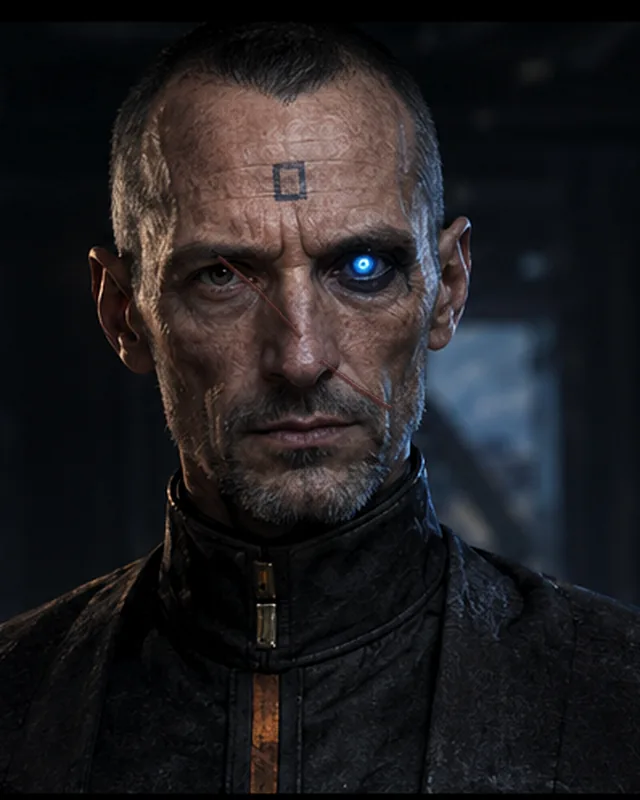
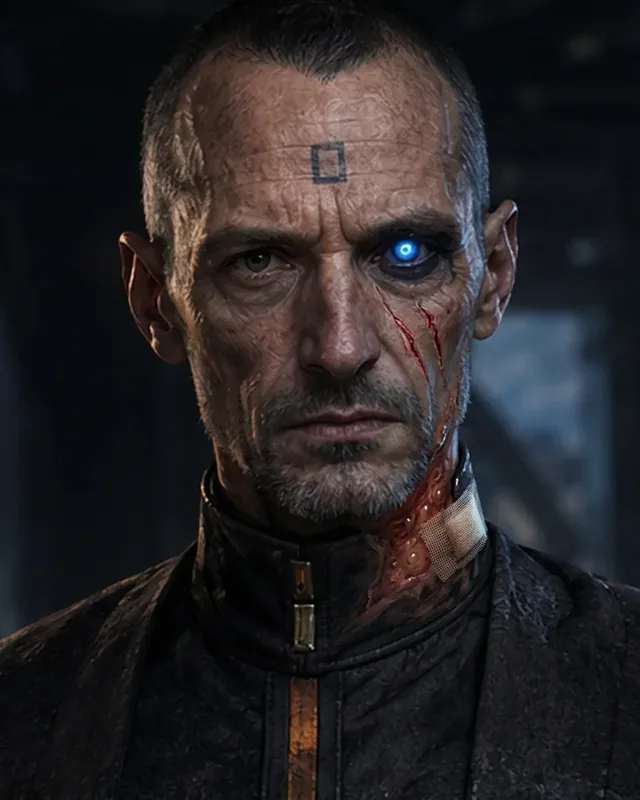
Art: the last ten pictures (six contacts, three hulls, cache scene) and eight redrawn scarred captains
Claude-Session: https://claude.ai/code/session_016dk1c5PoCoPJcdSHj1Wcmd

diff --git a/docs/ART-SLOTS.md b/docs/ART-SLOTS.md
@@ -41,9 +41,9 @@ messages.
 | Slot | Folder | Count | Size | Where it shows | Why it helps | Status |
 |---|---|---|---|---|---|---|
 | Captain portraits | `captains/` | 9 (+8 scarred) | 640×800 | comms call, top left | Eight named hunters and Calloway become people you remember and meet again. The optional `<id>-scarred` shows the face of a captain you have already beaten | built |
-| Contact portraits | `contacts/` | 18 | 640×800 | comms call, top left | The named people in story beats and cards (Okoro, Mirren, Draper, Saffi, Val…) stop being a line of text | built |
+| Contact portraits | `contacts/` | 24 | 640×800 | comms call, top left | The named people in story beats and cards (Okoro, Mirren, Draper, Saffi, Val…) stop being a line of text | built |
 | Emblems | `emblems/` | 10 | 256×256 | comms call, in place of the plain diamond | A call sign for each faction: who is calling, at a glance, in the panel's own colour (red when it is an alert) | built |
-| Ship profiles | `ships/` | 15 | 960×480 | comms call, above the strength bars | "Call signs for the ships": the player sees the hull a Custody blockade or a Gutter raid has, before choosing. On phones it stands in for the bars that are hidden there | built |
+| Ship profiles | `ships/` | 18 | 960×480 | comms call, above the strength bars | "Call signs for the ships": the player sees the hull a Custody blockade or a Gutter raid has, before choosing. On phones it stands in for the bars that are hidden there | built |
 | Port banners | `places/` | 7 | 1280×320 | port panel, above the title | Each holder's port has its own face (Kellern, Frontier, Guild, Gutter, Holdfast, free dock, and one under Continuance order) | built |
 | Endings | `endings/` | 6 | 1280×720 | the Threshold's epilogue, and the Archive beside a reached ending | The payoff of a 7 hour journey gets a picture | built |
 | Sightings | `sightings/` | 20 | 800×600 | Archive, beside a sighting once seen | Found photographs of the Voice and the Thren: a collection to complete, never shown before it is found | built |
@@ -192,7 +192,7 @@ Three more slots are ready, with prompts, for a second run
 | Slot | Folder | Count | Size | For |
 | --- | --- | --- | --- | --- |
 | Fleet | `fleet/` | 27 | 960×480 on black | the nine capital ships (`capital-<captain>`), eight neutral hulls (tanker, hauler, courier, gunship, barge, salvager, drifter, ferry), the Wayward as fitted (`wayward-stock`, `-guns`, `-rig`, `-signals`), and six hulls in their real owner's colours (`<hull>-<caller>`, such as `freighter-miners`), which the comms call already uses in place of the plain hull |
-| Jobs | `jobs/` | 25 | 1280×720 | one scene per job card (`sc_*`), drawn square-cropped on the job offer card. `sc_cache` (The Drift Cache) is still to make; its prompt is in `docs/art/briefs.md`, until then the card shows the caller's emblem |
+| Jobs | `jobs/` | 25 | 1280×720 | one scene per job card (`sc_*`), drawn square-cropped on the job offer card. all 25 are in |
 | Phenomena | `phenomena/` | 14 | 800×600 | the places on the chart (`veil` … `carrier`) |
 
 Left out on purpose, listed at the end of the brief: wrecks of each hull, damage
@@ -209,9 +209,8 @@ installed through `art:prep`.
   the eight `-scarred` portraits, three ports, two endings, 16 sightings, four
   file pieces and all eight regions. Where it repeated a picture already in, the
   existing file stayed, because its ships and emblems are larger and sharper.
-- Provisional: the `-scarred` portraits are the base portraits with light damage
-  marks, and a few sightings and endings stand in for the event rather than
-  showing it. No screen draws the regions yet.
+- Provisional: a few sightings and endings stand in for the event rather than
+  showing it. (The `-scarred` portraits were redrawn with real scars on 2026-10-24.)
 - The continuation export (2026-10-15) added 65 more: 27 fleet hulls, 24 job scenes
   and 14 phenomena (8.4 MB in all). Fleet hulls go through `art:prep` with
   contain-fit on black (no cut), after a small trim of the frame line the sheet
@@ -227,6 +226,7 @@ installed through `art:prep`.
   Wayward fits. Still weak: `wayward-stock` and `wayward-guns` look alike
   (brief: `docs/art/WAYWARD-FITS-BRIEF.md`). The art briefs all start by telling the
   artist to check the pictures already in `src/art/` and match them.
+- Last ten pictures (2026-10-24, `docs/art/REMAINING-ART-BRIEF.md`): six contact portraits (`story_kesh`, `story_ada`, `story_tollgate`, `story_echo_sable`, `story_implant`, `story_calloway_narrows`), the civilian hulls `hauler`, `barge` and `liner`, the `sc_cache` job scene, and eight redrawn `-scarred` captains. Every slot the game defines now has a picture.
 - Wired 2026-10-24: regions and gates in the chart header (`ui/chart.ts` `renderHead`), the port banner shown again on desktop and taller (`#port .port-art`, hidden on short phones), Archive thumbnails 148×83 (104×58 on phones). Still no screen: phenomena, planets and the two debrief scenes, because no system or run carries which one to show (a chart system has no planet type or feature list).
 - The ten refit bay tab banners (2026-10-24, `docs/art/UPGRADES-ART-BRIEF.md`, batch B) are
   installed in `src/art/baybanners/`, 1280×720. The refit bay draws the open tab's banner dim and soft behind the ship (`.bay-back`, `ui/bay.ts` `backdrop`); a tab with no file shows none. Arcade keeps its tabs locked, so it only shows Suggested. The 29 inspector pictures (2026-10-24, batch B of `docs/art/UPGRADES-FINISH-BRIEF.md`) are in `src/art/specs/`, 1280×720, and show above the name in the bay's inspector on desktop. The 93 bay icons (batch A: the 77 redrawn and the 16 yard modules that had none) are in `public/icons/node/`, 128 px masks cut by `tools/cut-bay-icon-sheets.py` from the nine 4×3 sheets (the older `tools/cut-bay-icons.py` cut the 96 px v2 sheet).
